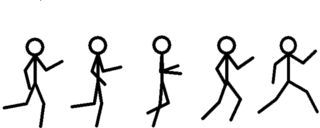
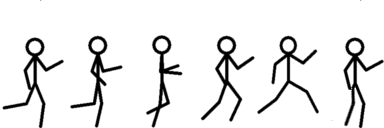
Changed standing sprite

Changed region(s): [[0.0, 0.25, 1.0, 1.0]]

diff --git a/client/js/sprites/player.js b/client/js/sprites/player.js
@@ -79,7 +79,7 @@ function player(nickname,x,y,world,scene){
 		}else if(this.vgX>0){
 			this.dir = false;
 		}else{
-			this.frame = 0;//when not moving keep animation still
+			this.frame = 5;//when not moving keep animation still
 		}
 
 		if(this.dir){
